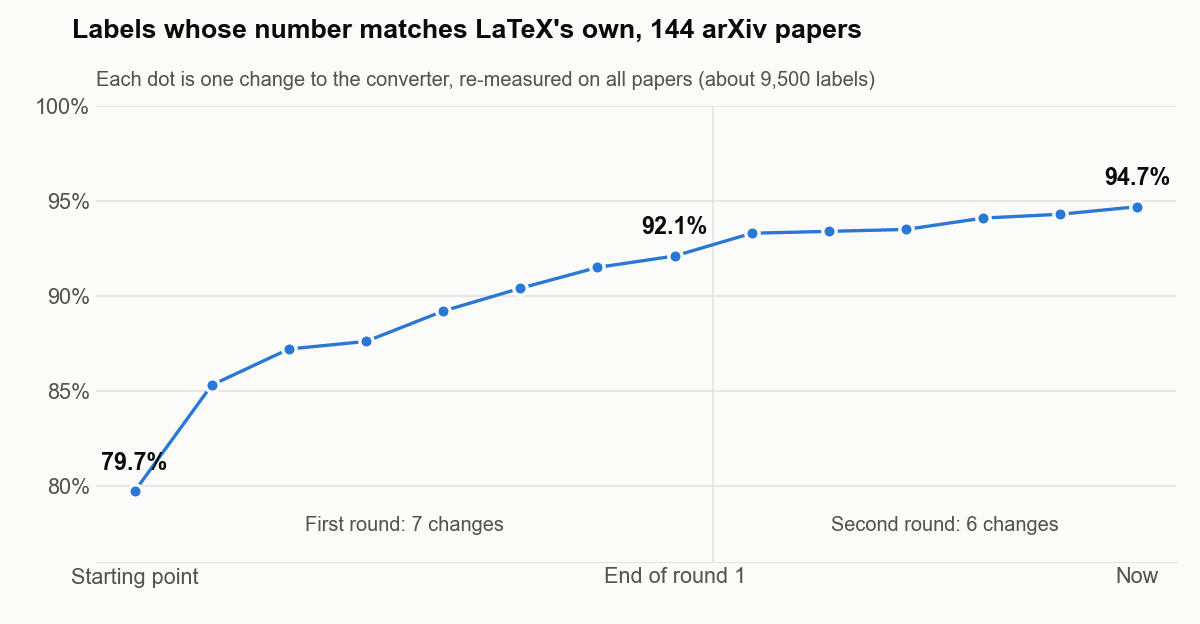
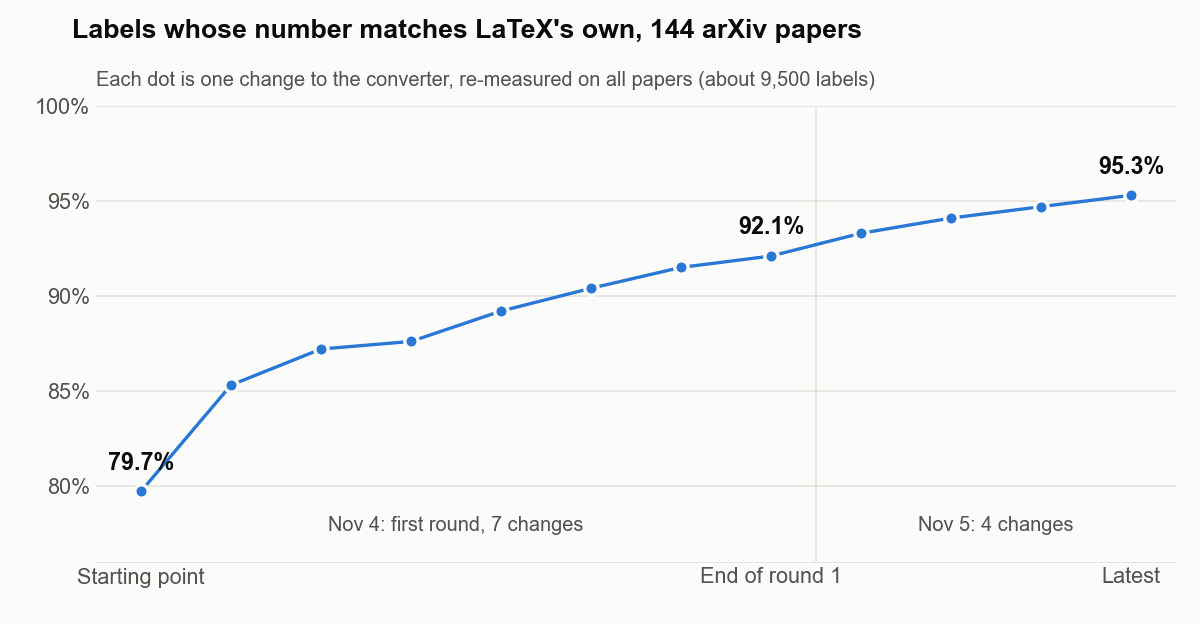
post(r227): section 3 as a dated progress log (5 lines, 95.3%), chart from the same log
Claude-Session: https://claude.ai/code/session_01WtnKZYLqXGfnwQ1eY7a3NB

diff --git a/_posts/2026-11-15-how-equation-numbers-survive-latex-to-word.md b/_posts/2026-11-15-how-equation-numbers-survive-latex-to-word.md
@@ -11,7 +11,7 @@ pin: false
 description: "Word has no idea what equation (2.4) is. To turn a LaTeX paper into a Word document whose numbers and references still work, the converter has to rebuild what LaTeX computes as Word fields. How we build it, how we score it against LaTeX's own answer key on 144 arXiv papers, and where the number stands now."
 ---
 
-<!-- R225 (2026-11-05). Launch sequence post 2 of 4 (plan: addon repo docs/marketing_docs/tex2docx_launch_sequence_2026-11-05.md). Numbers: addon repo .tmp/r210_p1_phase1.md (R209 baseline 79.7%, R210 92.1%, G2 Word check, free-route row) and .tmp/r222/progress.md (94.7% at writing). Rules: no competitor or product names, no price, no limitation list, no release date. -->
+<!-- R225 (2026-11-05). Launch sequence post 2 of 4 (plan: addon repo docs/marketing_docs/tex2docx_launch_sequence_2026-11-05.md). Numbers: addon repo .tmp/r210_p1_phase1.md (R209 baseline 79.7%, R210 92.1%, G2 Word check, free-route row) and .tmp/r222/progress.md; section 3 log is generated from addon .tmp/r225/log.json by .tmp/r225/build.py (R227). Rules: no competitor or product names, no price, no limitation list, no release date. -->
 
 In [the last post](/blog/en/posts/latex-to-word-document-coming/) we showed one passage of a paper converted to Word two ways: once by the usual free route, where "(1.1)" turned into "([expansion])" and the citations vanished, and once by the converter we are building, where every number was where the PDF puts it.
 
@@ -57,22 +57,24 @@ So the test goes like this:
 
 The usual free route goes through the same answer key, measured the same way. On it, the free route matched none of the labelled equation numbers, and printed 18% of the references right, all of them as plain text.
 
-## 3. Where it stands, and what is hard
+## 3. Where it stands: the log
 
-When we started measuring, 79.7% of the labels came out with LaTeX's number. Since then, every change to the converter has been re-measured on all 144 papers.
+When we started measuring, 79.7% of the labels came out with LaTeX's number. Since then, every change to the converter has been re-measured on all 144 papers. Here is the log, one line per change, newest last.
 
-![Line chart of the share of labels whose number matches LaTeX's own on 144 arXiv papers. It starts at 79.7%, climbs through seven changes to 92.1% at the end of the first round, then through six more changes to 94.7% now.](/assets/img/posts/2026-11-15-equation-numbers-latex-to-word/02-progress.png){: width="720" }
-_Each dot is one change to the converter, re-measured on all 144 papers. At the time of writing: 94.7% of about 9,500 labels match LaTeX's `.aux`._
+<!-- log:start - generated by addon repo .tmp/r225/build.py from .tmp/r225/log.json; edit log.json, not this block -->
+| Date | What was fixed | Labels matching LaTeX |
+|---|---|---|
+| Nov 4 | First round, seven changes: counters that authors define themselves, lists with their own labels, numbered rows in multi-line equations, the way some journal classes number tables and sub-headings, footnotes, appendices and parts | 79.7% → 92.1% |
+| Nov 5 | A multi-line equation whose last row is empty still gets its number, and a label on an unnumbered row now names the row that carries the number | 93.3% |
+| Nov 5 | Labels hidden inside an author's own shorthand commands, label names with spaces in them, theorems in some journal classes, algorithm numbers set by package options, and thesis-style figure numbers | 94.1% |
+| Nov 5 | Equations grouped as 2a, 2b, 2c, and counters changed or an appendix started in the middle of a paragraph | 94.7% |
+| Nov 5 | Pseudo-code blocks with numbered lines: each line gets its number, and a reference to a line points at it | 95.3% |
 
-The first round was the common machinery: counters an author defines in the preamble, lists with custom labels, numbered rows inside multi-line equations, the way some journal classes number tables and sub-headings. The second round is the long tail, and it is where the interesting work is:
+![Line chart of the share of labels whose number matches LaTeX's own on 144 arXiv papers. It starts at 79.7%, climbs through 7 changes to 92.1% at the end of the first round on November 4, then through 4 more changes to 95.3% on November 5.](/assets/img/posts/2026-11-15-equation-numbers-latex-to-word/02-progress.png){: width="720" }
+_The same log as a chart. Each dot is one change, re-measured on all 144 papers. Latest (November 5): 95.3% of about 9,500 labels match LaTeX's `.aux`._
+<!-- log:end -->
 
-- **Labels hidden inside an author's own commands.** Many papers wrap environments in shorthand macros of their own, sometimes with a label inside. The converter has to read the macro the way TeX does before it can find the label.
-- **Counters changed in the middle of a paragraph.** An author who writes "skip one equation number here" with a counter command, or who starts the appendix mid-page, changes every number after that point. Miss it once and the rest of the section is off by one.
-- **Grouped equations numbered 2a, 2b, 2c**, which share a parent number.
-- **Algorithms and sub-figures**, whose numbering depends on package options set far away in the preamble.
-- **Class-specific caption numbers**, such as a thesis class that numbers figures "3-1" instead of "3.1".
-
-None of these needs anything Word can't hold. They need the counting to be read more carefully, one construct at a time — and each one fixed shows up as another dot on the chart.
+The first round was the common machinery. Everything after it is the long tail: constructs that only some papers use, each worth between about fifty and a hundred labels across the 144 papers. None of them has needed anything Word can't hold. They need the counting to be read more carefully, one construct at a time.
 
 One thing to keep in mind about these numbers: they are development numbers, measured on the papers we work with. Before the converter goes live we will run it on papers it has never seen, and that is the number we will stand behind.
 
